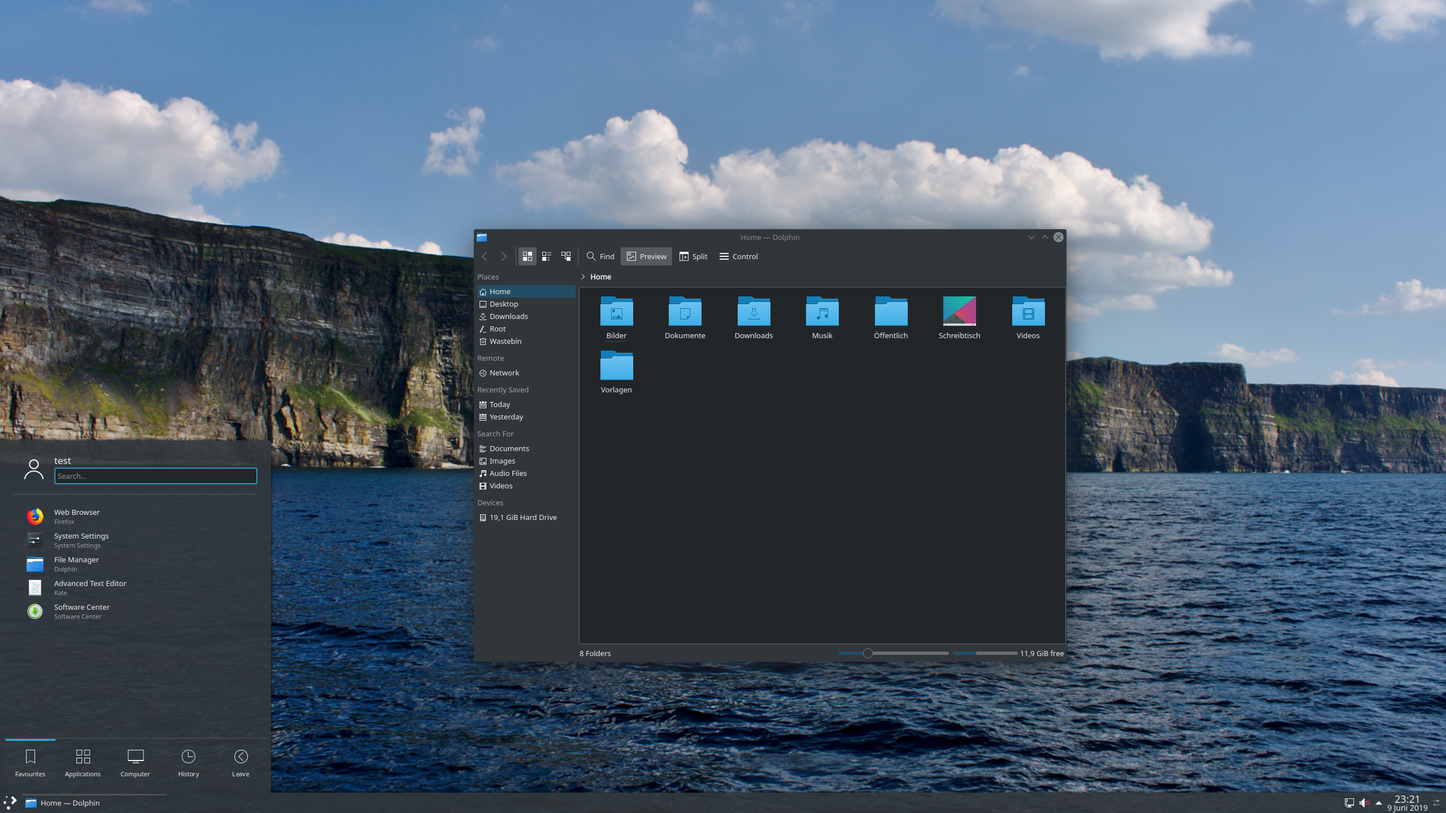
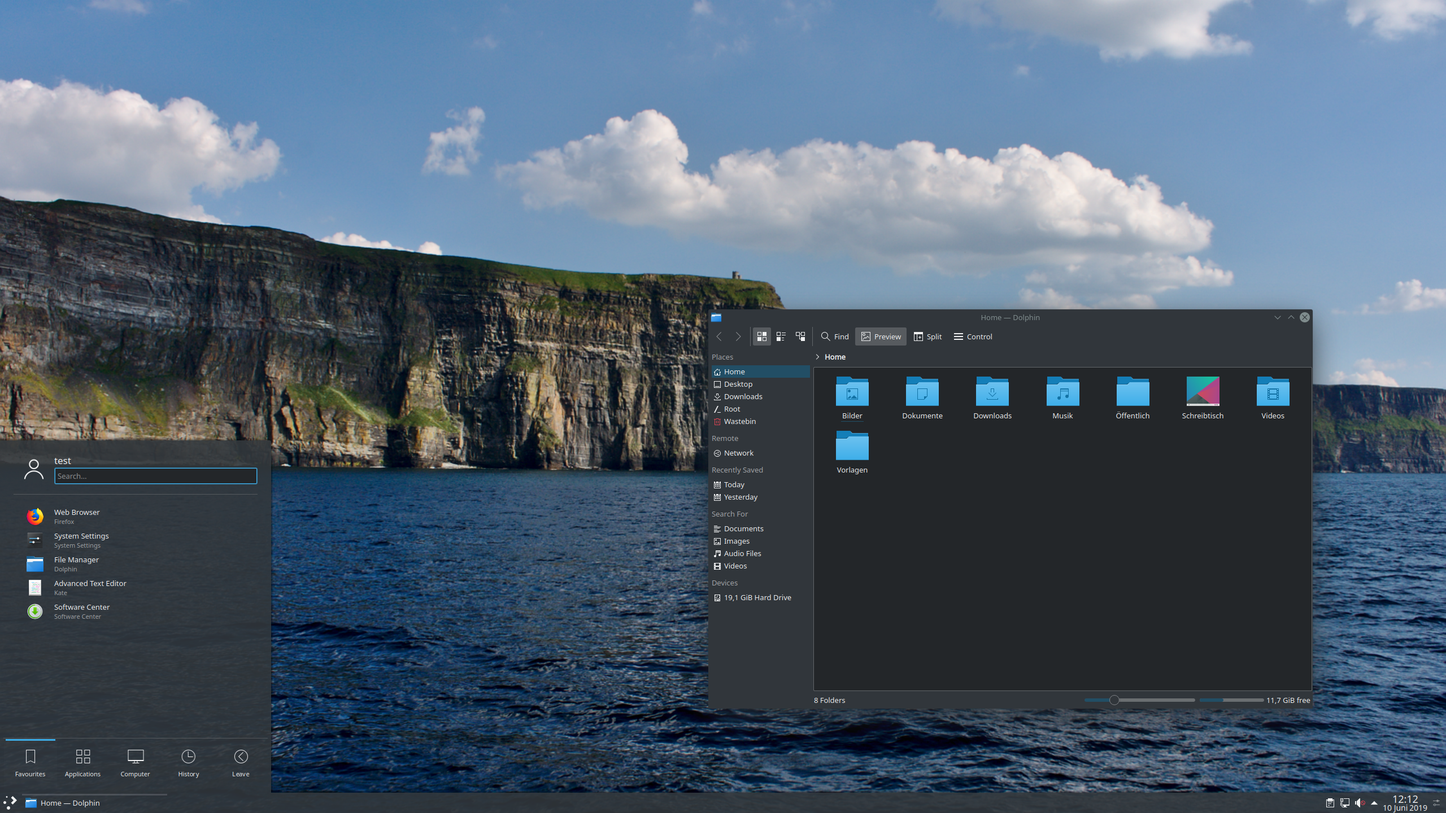
Update license and better preview screenshot

Changed region(s): [[0.3125, 0.2812, 0.9375, 0.9062], [0.5625, 0.5312, 0.625, 0.5938], [0.9375, 0.9688, 1.0, 1.0]]

diff --git a/README.md b/README.md
@@ -4,6 +4,6 @@ This package is to be used for the default configuration of elements within the 
 
 ## License
 
-Copyright © 2017-2018 Solus Project
+Copyright © 2017-2019 Solus Project
 
 GPL-2.0
